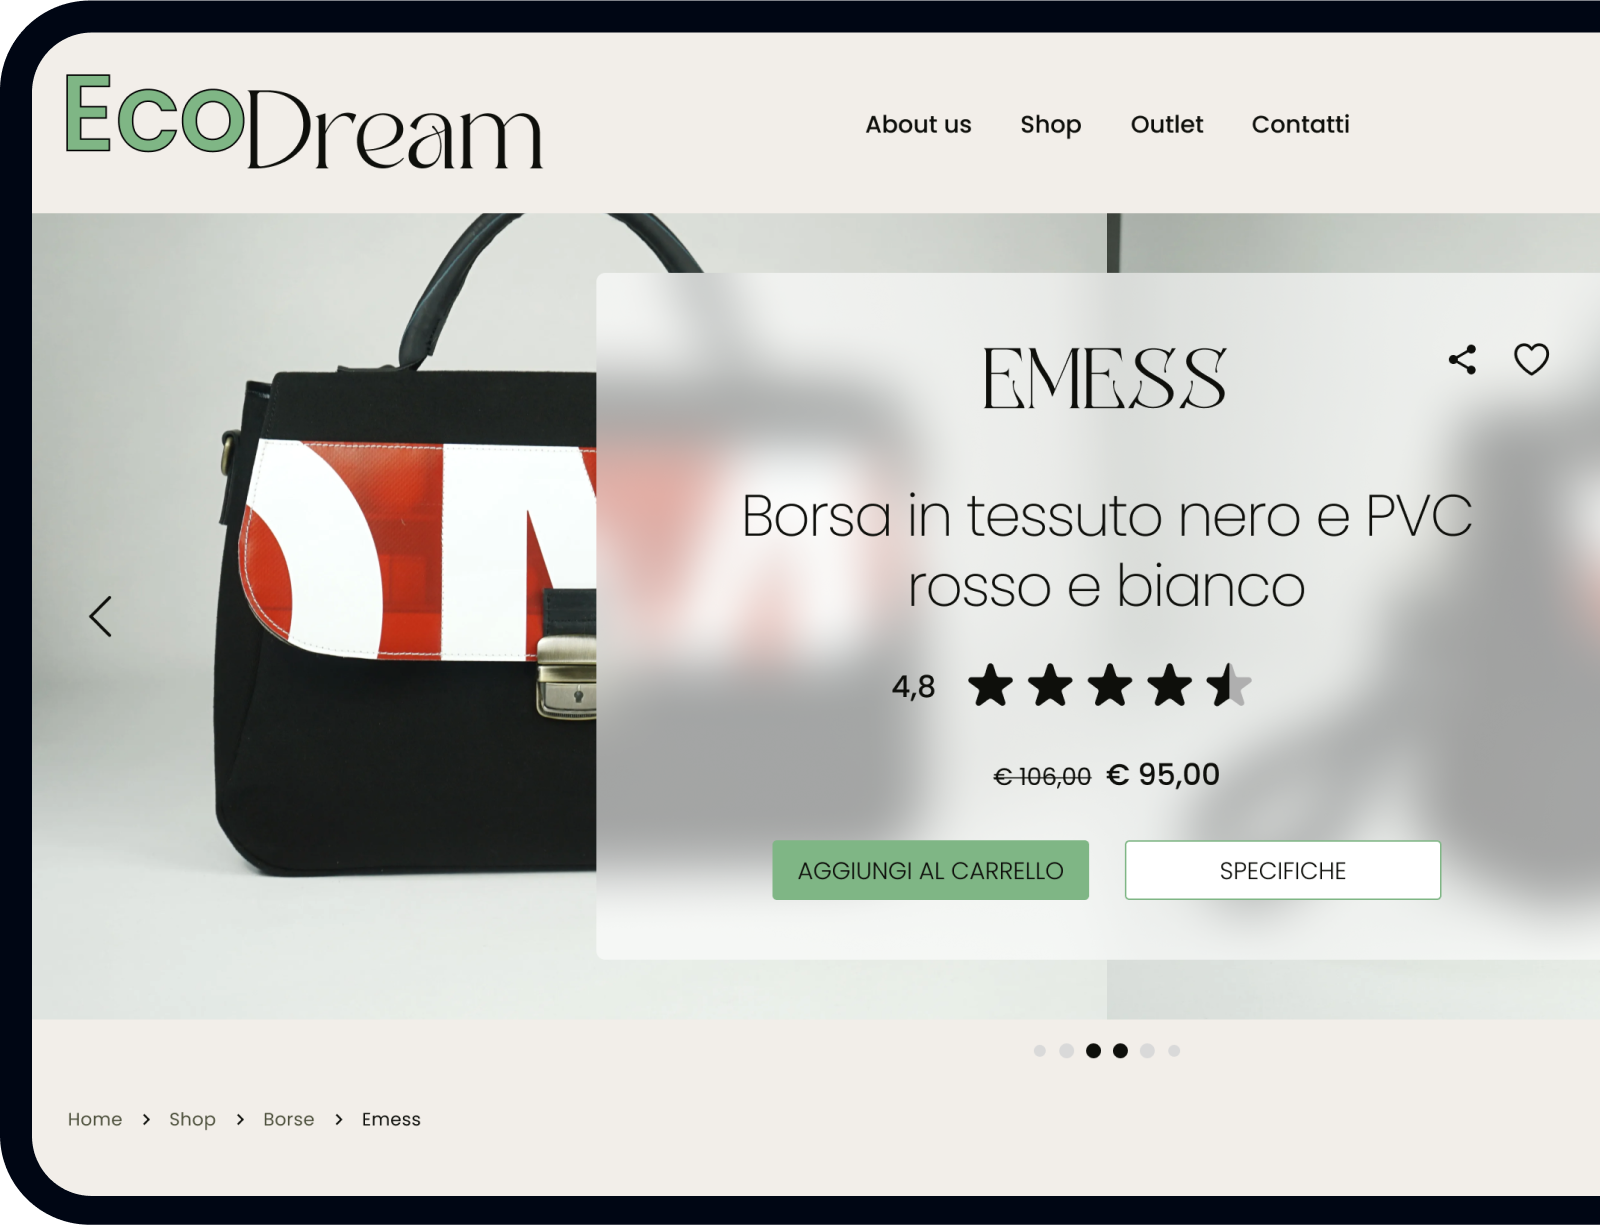
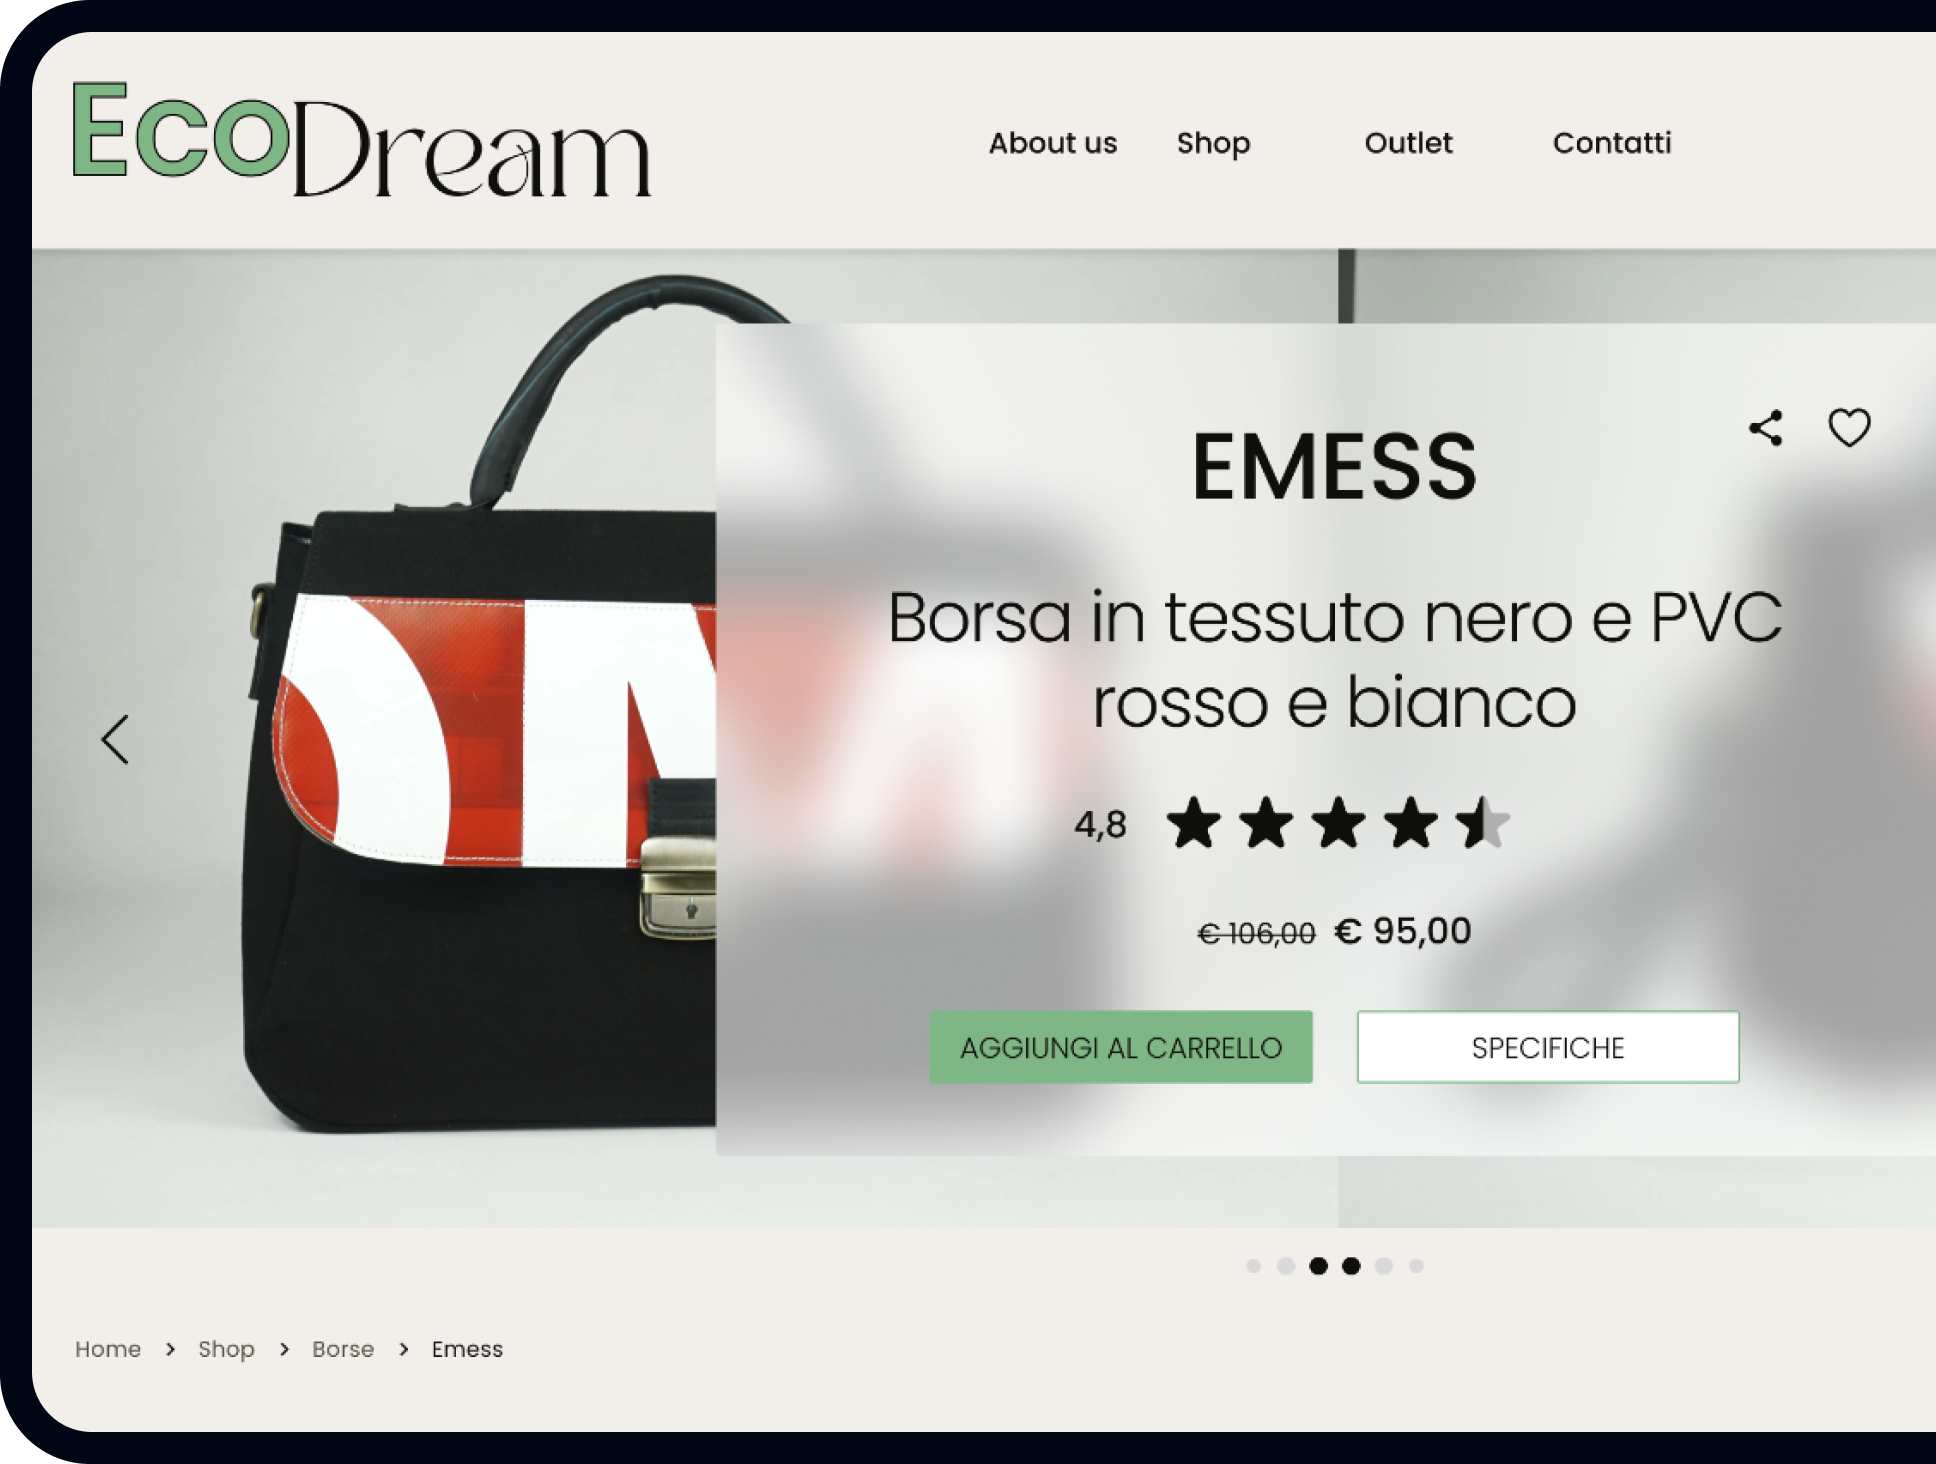
ecodream mockups

diff --git a/ecodream.html b/ecodream.html
@@ -517,8 +517,8 @@
           </li>
         </ul>
         <p>The usage of these typefaces - and their relative fonts - is very specific.</p>
-        <p><strong>Badoga</strong> is used for headings, payoff, and important text.</p>
-        <p><strong>Poppins</strong> is used for bodycopy.</p>
+        <p><strong>Badoga</strong> is used for the logo type.</p>
+        <p><strong>Poppins</strong> is used for bodycopy and headings.</p>
       </div>
 
     </div>
